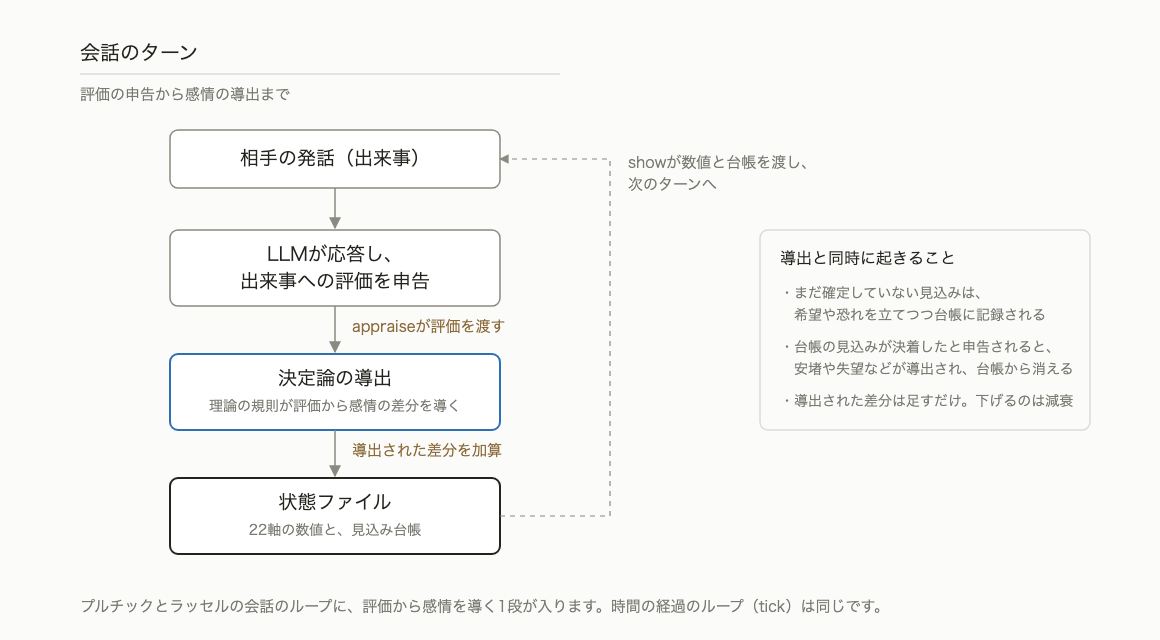
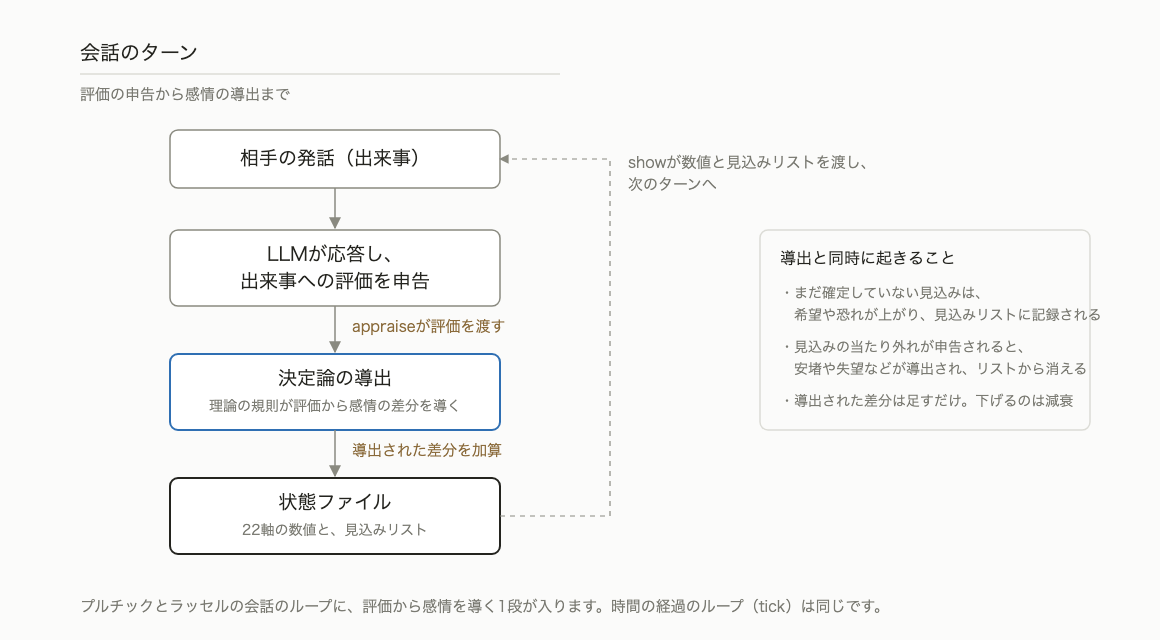
fix: ch6を全文見直し台帳を見込みリスト、決着を当たり外れに言い換える

diff --git a/books/emotion-models-for-llm-agents/ch08-comparison.md b/books/emotion-models-for-llm-agents/ch08-comparison.md
@@ -12,7 +12,7 @@ title: "比較とまとめ"
 
 | | プルチックの感情の輪 | ラッセルの円環モデル | OCCモデル | バレットの構成主義的情動理論 |
 | --- | --- | --- | --- | --- |
-| 外部状態 | 8つの感情の量 | 2軸の値 | 22の感情の量と見込み台帳 | 2軸の値と経験の概念ストア |
+| 外部状態 | 8つの感情の量 | 2軸の値 | 22の感情の量と見込みリスト | 2軸の値と経験の概念ストア |
 | 感情の名前の数 | 8 | 0 | 22 | 決まっていない |
 | 感情の名前を決めるもの | 理論（8つに固定） | 読む側のLLMの解釈 | 評価から導く規則 | LLMがその場で構成 |
 | LLMが申告するもの | 感情の差分 | 2軸の差分 | 出来事の評価 | 2軸の差分と感情の名前と14属性 |
@@ -22,7 +22,7 @@ title: "比較とまとめ"
 
 感情エンジンとLLMの役割分担はモデルごとに変わりました。プルチックの感情の輪では理論が定める対極と隣接の関係をLLMへの指示として渡しました。ラッセルの円環モデルでは感情の名前を付ける作業をすべてLLMに任せました。OCCモデルでは評価から感情を導く部分を感情エンジンの規則に移しました。バレットの構成主義的情動理論で感情エンジンが担当するのは状態の保持と減衰と類似した経験の検索だけです。
 
-外部状態に残る記録もモデルを追って増えました。プルチックとラッセルは感情の量だけです。OCCモデルでは見込み台帳に感情が生じた理由が記録され、バレットでは過去に付けた感情の名前が蓄積されます。記録が増えるほどセッションをまたいで引き継げる情報も増えます。プロンプトの長さへの影響はモデルで異なります。OCCモデルの台帳は毎ターン全件をLLMに渡しますが上限は20件です。バレットの概念ストアは似た経験の上位5件だけを渡すので、ストアが増えてもプロンプトは長くなりません。
+外部状態に残る記録もモデルを追って増えました。プルチックとラッセルは感情の量だけです。OCCモデルでは見込みリストに感情が生じた理由が記録され、バレットでは過去に付けた感情の名前が蓄積されます。記録が増えるほどセッションをまたいで引き継げる情報も増えます。プロンプトの長さへの影響はモデルで異なります。OCCモデルの見込みリストは毎ターン全件をLLMに渡しますが上限は20件です。バレットの概念ストアは似た経験の上位5件だけを渡すので、ストアが増えてもプロンプトは長くなりません。
 
 ## 検証結果の比較 <!-- 未レビュー -->
 
@@ -36,7 +36,7 @@ title: "比較とまとめ"
 | --- | --- |
 | プルチックの感情の輪 | 相手を受け入れたまま悲しむ状態が受容と悲しみの2つの軸に分かれて記録された |
 | ラッセルの円環モデル | 責められた直後の動揺と責められ続けたあとの消沈が覚醒の高さの違いとして記録された |
-| OCCモデル | 誰の行為が原因かによって非難と恥が分かれ、恐れの理由が台帳に記録された。一度上がった感情は下がらずに残った |
+| OCCモデル | 誰の行為が原因かによって非難と恥が分かれ、恐れの理由が見込みリストに記録された。一度上がった感情は下がらずに残った |
 | バレットの構成主義的情動理論 | 想起があると過去に付けた感情の名前が次のターンでも使われることがあった（天邪鬼の1回の実行） |
 
 ### 応答への反映

diff --git a/books/emotion-models-for-llm-agents/ch07-barrett.md b/books/emotion-models-for-llm-agents/ch07-barrett.md
@@ -54,7 +54,7 @@ culture_mapは感情の語彙をまとめたマップで、本書では日本語
 
 ![構成のループ。想起、構成、feel、rememberの1ターンと申告が次のターンの想起クエリになる戻り](/images/emotion-models-for-llm-agents/ch07-recall-loop.png)
 
-保存される名前は理論が定めた語ではなく、エージェント自身が過去に付けた名前です。「もどかしさ」と名付けた経験が似た状況で想起され、次に名前を付けるときの材料になります。OCCモデルの見込み台帳は決着すると消える短期の記録でしたが、概念ストアは蓄積されてセッションをまたいで残ります。評価と感情の構成と名前を付けることはすべてLLMが担当し、感情エンジンはLLMが付けた名前を保存して返すだけです。
+保存される名前は理論が定めた語ではなく、エージェント自身が過去に付けた名前です。「もどかしさ」と名付けた経験が似た状況で想起され、次に名前を付けるときの材料になります。OCCモデルの見込みリストは当たり外れが分かると消える短期の記録でしたが、概念ストアは蓄積されてセッションをまたいで残ります。評価と感情の構成と名前を付けることはすべてLLMが担当し、感情エンジンはLLMが付けた名前を保存して返すだけです。
 
 ## 検証の目的と方法 <!-- 未レビュー -->
 
